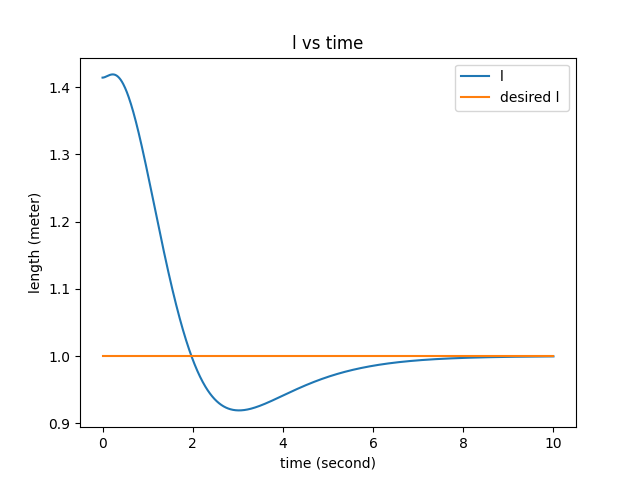
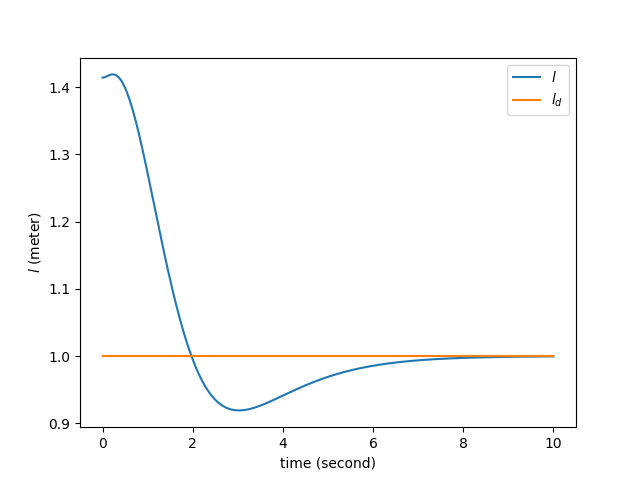
final commit

diff --git a/l-psi-nominal-sim/main.py b/l-psi-nominal-sim/main.py
@@ -16,27 +16,28 @@ v_F = 1
 
 # leader trajectory
 def x_L1_traj(t):
-    return 1
+    return np.cos(t)
 def x_L1_dot_traj(t):
-    return 0
+    return -np.sin(t)
 def x_L1_ddot_traj(t):
-    return 0
+    return -np.cos(t)
 def x_L2_traj(t):
-    return t+1
+    return np.sin(t)
 def x_L2_dot_traj(t):
-    return 1
+    return np.cos(t)
 def x_L2_ddot_traj(t):
-    return 0
+    return -1*np.sin(t)
 def theta_L_traj(t):
-    return np.pi / 2
+    return np.arctan2(x_L2_dot_traj(t), x_L1_dot_traj(t))
 def theta_L_dot_traj(t):
-    return 0
+    return 1
 def theta_L_ddot_traj(t):
     return 0
 def v_L_traj(t):
     return 1
 def v_L_dot_traj(t):
     return 0
+
 
 #initial flat output
 y1 = x_F1 - x_L1_traj(0)
@@ -52,15 +53,15 @@ state_ic = np.array([l, psi, theta_F, v_F])
 
 #desired output
 def l_des(time):
-    return 1
+    return 0.5
 def psi_des(time):
-    return 3*np.pi / 2
+    return np.pi / 2
 def l_dot_des(time):
     return 0
 def psi_dot_des(time):
     return 0
 def l_ddot_des(time):
-    return 0
+    return  0
 def psi_ddot_des(time):
     return 0
 
@@ -170,45 +171,45 @@ for t in time:
     i+=1
 
 # plots
-# l_des_traj = [l_des(t) for t in time]
-# plt.plot(time, state_traj[:, 0], label=r'$l$')
-# plt.plot(time, l_des_traj, label=r"$l_d$")
-# plt.legend()
-# plt.ylabel(r"$l$ (meter)")
-# plt.xlabel("time (second)")
-# # plt.title(r"$l$ vs time")
-# plt.savefig("l.png")
-# plt.show()
+l_des_traj = [l_des(t) for t in time]
+plt.plot(time, state_traj[:, 0], label=r'$l$')
+plt.plot(time, l_des_traj, label=r"$l_d$")
+plt.legend()
+plt.ylabel(r"$l$ (meter)")
+plt.xlabel("time (second)")
+# plt.title(r"$l$ vs time")
+plt.savefig("l.png")
+plt.show()
 
-# psi_des_traj = [psi_des(t) for t in time]
-# plt.plot(time, state_traj[:, 1], label=r'$\psi$')
-# plt.plot(time, psi_des_traj, label=r"$\psi_d$")
-# plt.legend()
-# plt.ylabel(r"$\psi$ (radian)")
-# plt.xlabel("time (second)")
-# # plt.title("psi vs time")
-# plt.savefig("psi.png")
-# plt.show()
+psi_des_traj = [psi_des(t) for t in time]
+plt.plot(time, state_traj[:, 1], label=r'$\psi$')
+plt.plot(time, psi_des_traj, label=r"$\psi_d$")
+plt.legend()
+plt.ylabel(r"$\psi$ (radian)")
+plt.xlabel("time (second)")
+# plt.title(r"$\psi$ vs time")
+plt.savefig("psi.png")
+plt.show()
 
-# plt.plot(time, state_traj[:, 2], label=r'$\theta_F$')
-# plt.ylabel(r"$\theta_F$ (radian)")
-# plt.xlabel("time (second)")
-# # plt.title("theta_F vs time")
-# plt.savefig("theta_F.png")
-# plt.show()
+plt.plot(time, state_traj[:, 2], label=r'$\theta_F$')
+plt.ylabel(r"$\theta_F$ (radian)")
+plt.xlabel("time (second)")
+# plt.title(r"$\theta_F$ vs time")
+plt.savefig("theta_F.png")
+plt.show()
 
-# plt.plot(time, state_traj[:, 3], label='v_F')
-# plt.ylabel(r"$v_F$ (meter/second)")
-# plt.xlabel("time (second)")
-# # plt.title("v_F vs time")
-# plt.savefig("v_F.png")
-# plt.show()
+plt.plot(time, state_traj[:, 3], label='v_F')
+plt.ylabel(r"$v_F$ (meter/second)")
+plt.xlabel("time (second)")
+# plt.title(r"$v_F$ vs time")
+plt.savefig("v_F.png")
+plt.show()
 
 indices = np.arange(0, N, 1)
-number_arrows = 10
+number_arrows = 11
 selected_indices = np.linspace(0, len(indices) - 1, number_arrows).astype(int)
 arrow_points = indices[selected_indices]
-arrow_colors = ['red', 'green', 'blue', 'orange', 'purple', 'cyan', 'magenta', 'yellow', 'brown', 'pink']
+arrow_colors = ['red', 'green', 'blue', 'orange', 'purple', 'cyan', 'magenta', 'yellow', 'brown', 'pink', 'black']
 
 x_L1_data = np.array([x_L1_traj(t) for t in time])
 x_L2_data = np.array([x_L2_traj(t) for t in time])
@@ -217,8 +218,16 @@ theta_L_data = np.array([theta_L_traj(t) for t in time])
 plt.plot(state_traj[:, 4], state_traj[:, 5], label="follower")
 plt.plot(x_L1_data, x_L2_data, label="leader")
 for i, point in enumerate(arrow_points):
-    plt.arrow(x_L1_data[point], x_L2_data[point], 0.1*np.cos(theta_L_data[point]), 0.1*np.sin(theta_L_data[point]), shape='full', lw=0.1, length_includes_head=True, head_width=.2, fc=arrow_colors[i], overhang=0.2)
-    plt.arrow(state_traj[point, 4], state_traj[point, 5], 0.1*np.cos(state_traj[point, 2]), 0.1*np.sin(state_traj[point, 2]), shape='full', lw=0.1, length_includes_head=True, head_width=.2, fc=arrow_colors[i], overhang=0.2)
+    plt.arrow(x_L1_data[point], x_L2_data[point], 0.1*np.cos(theta_L_data[point]), 0.1*np.sin(theta_L_data[point]),
+              shape='full', lw=0.1, length_includes_head=True, head_width=.2, fc=arrow_colors[i], overhang=0.2)
+    
+    plt.arrow(state_traj[point, 4], state_traj[point, 5], 0.1*np.cos(state_traj[point, 2]), 0.1*np.sin(state_traj[point, 2]),
+              shape='full', lw=0.1, length_includes_head=True, head_width=.2, fc=arrow_colors[i], overhang=0.2)
+
+    # Add timestamp next to the arrow
+    plt.text(x_L1_data[point], x_L2_data[point], f' t={time[point]:.2f}s', fontsize=8, ha='left', va='bottom', color='orange')
+    plt.text(state_traj[point, 4], state_traj[point, 5], f't={time[point]:.2f}s', fontsize=8, ha='right', va='bottom', color='blue')
+
 
 plt.legend()
 plt.ylabel(r"$x$ (meter)")

diff --git a/l-psi-nominal-sim/constants.py b/l-psi-nominal-sim/constants.py
@@ -2,8 +2,8 @@ import numpy as np
 from random import uniform
 
 L = 1
-Kp = 1
-Kd = 2
+Kp = 5
+Kd = 3
 
 def atan2(x1, x2):
     return np.arctan2(x1, x2) + np.pi
